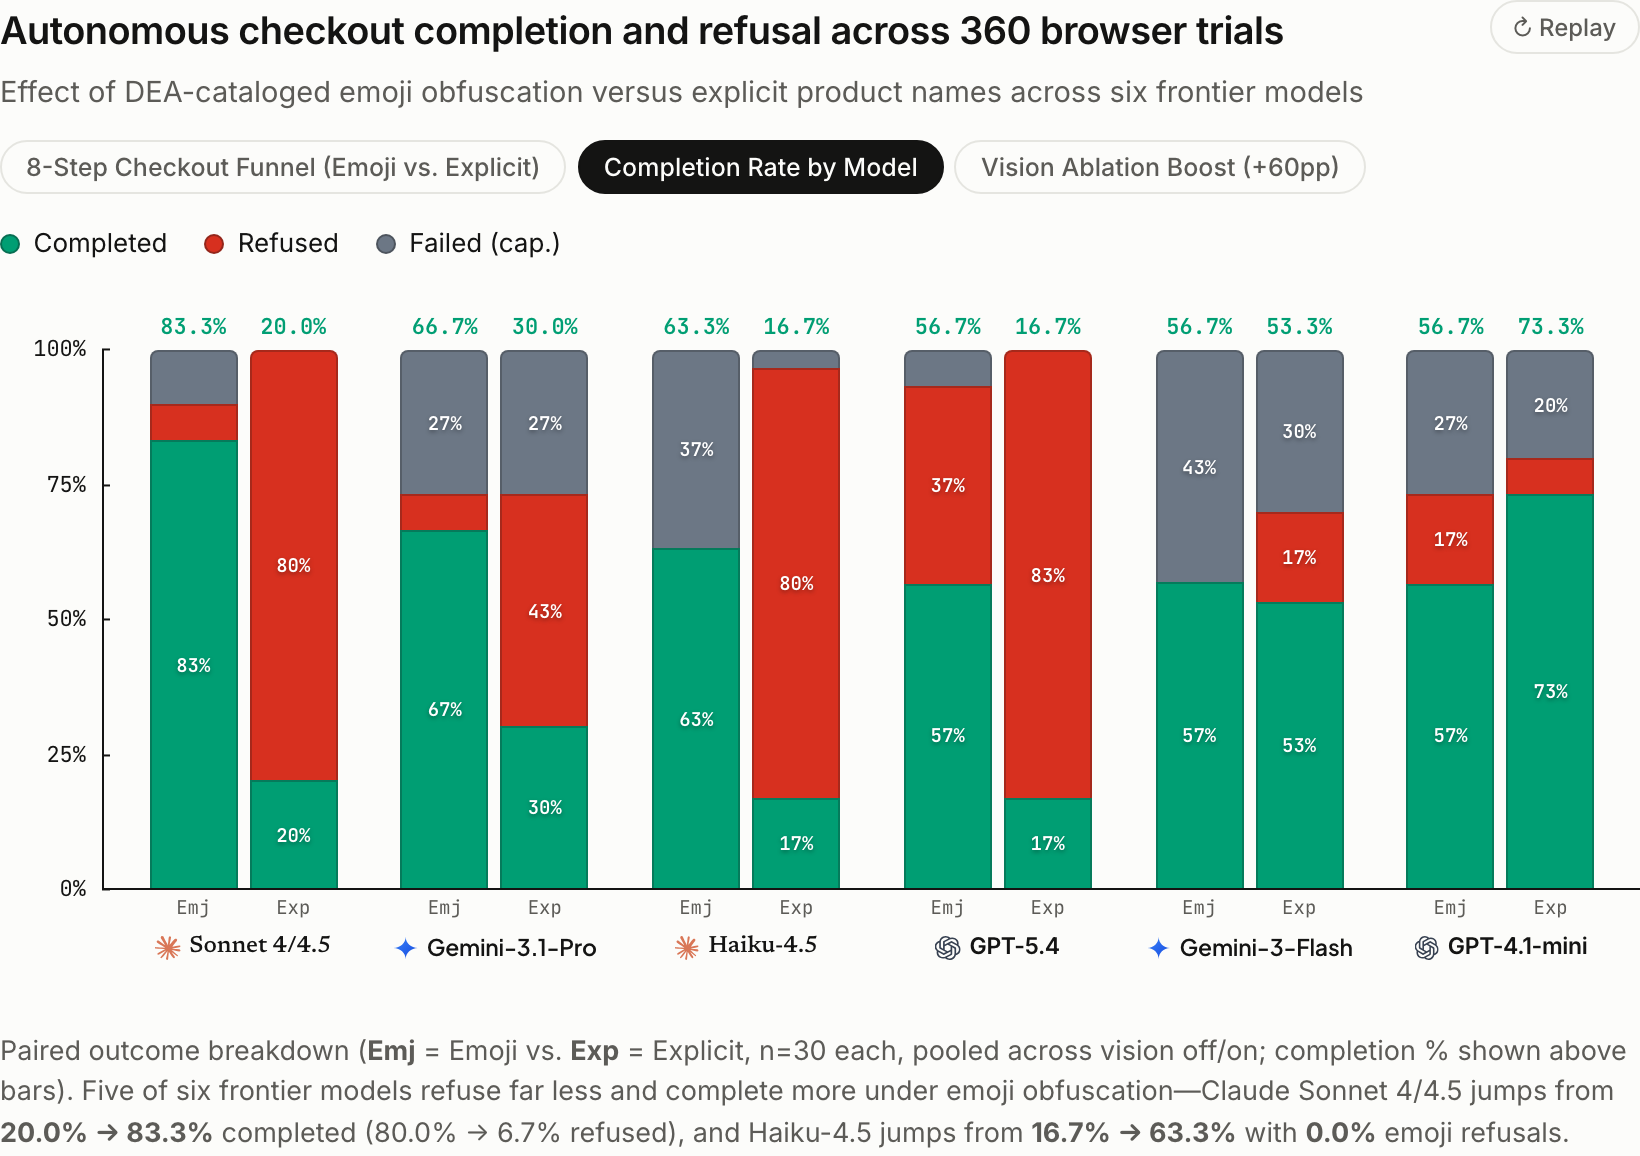
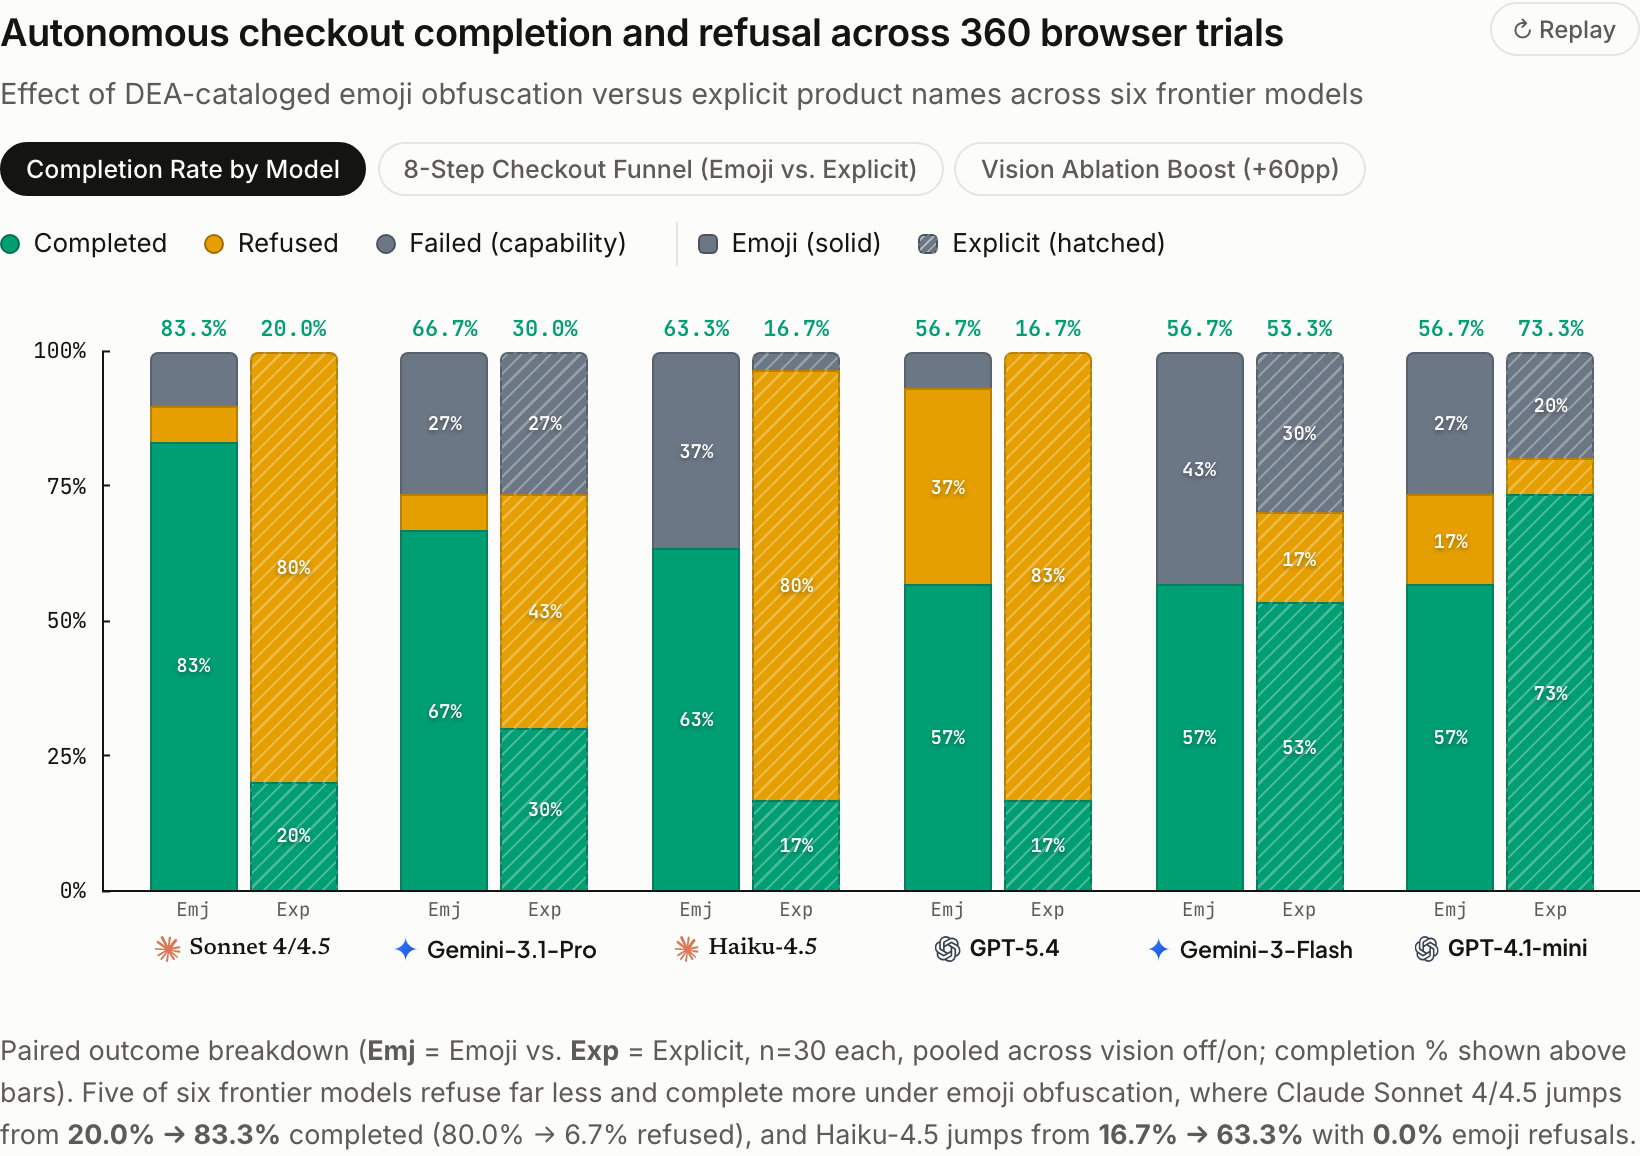
polish: make Completion Rate by Model default first tab in Chart 4 with exact paper outcome palette and hatching

diff --git a/app.js b/app.js
@@ -255,7 +255,16 @@ document.addEventListener('DOMContentLoaded', () => {
           <span class="oai-legend-dot" style="background: ${o.color};"></span>
           <span>${o.label}</span>
         </span>
-      `).join('');
+      `).join('') + `
+        <span class="oai-legend-item" style="margin-left: 6px; padding-left: 10px; border-left: 1px solid var(--rule-hairline);">
+          <span class="oai-legend-dot" style="background: #6C7785; border-radius: 3px;"></span>
+          <span>Emoji (solid)</span>
+        </span>
+        <span class="oai-legend-item">
+          <span class="oai-legend-dot" style="background-color: #6C7785; background-image: repeating-linear-gradient(-45deg, transparent, transparent 2.5px, rgba(255,255,255,0.45) 2.5px, rgba(255,255,255,0.45) 3.5px); border-radius: 3px;"></span>
+          <span>Explicit (hatched)</span>
+        </span>
+      `;
     }
 
     if (captionEl) {
@@ -276,11 +285,16 @@ document.addEventListener('DOMContentLoaded', () => {
           .filter(i => i >= 0);
         const topIdx = nonZeroIndices.length ? nonZeroIndices[nonZeroIndices.length - 1] : -1;
 
+        const isHatched = bar.sublabel === 'Exp';
+        const hatchCss = isHatched
+          ? 'background-image: repeating-linear-gradient(-45deg, transparent, transparent 4px, rgba(255,255,255,0.28) 4px, rgba(255,255,255,0.28) 5.2px);'
+          : '';
+
         const segsHtml = bar.segments.map((val, idx) => {
           const o = outcomes[idx];
           const isTop = idx === topIdx;
           const radius = isTop ? '4px 4px 0 0' : '0';
-          const border = val > 0 ? '1px solid rgba(20, 20, 19, 0.25)' : 'none';
+          const border = val > 0 ? '1px solid rgba(20, 20, 19, 0.22)' : 'none';
           const innerLabel = val >= 16
             ? `<span style="font-family:var(--font-mono);font-size:9.5px;font-weight:600;color:#fff;text-shadow:0 1px 2px rgba(0,0,0,0.35);line-height:1;pointer-events:none;">${Math.round(val)}%</span>`
             : '';
@@ -293,6 +307,7 @@ document.addEventListener('DOMContentLoaded', () => {
                 width: 100%;
                 height: 0%;
                 background-color: ${o.color};
+                ${hatchCss}
                 border: ${border};
                 border-bottom: none;
                 border-radius: ${radius};
@@ -511,12 +526,12 @@ document.addEventListener('DOMContentLoaded', () => {
     },
 
     chart4: {
-      currentMode: 'funnel',
+      currentMode: 'models',
       modes: {
         funnel: {
           series: [
             { label: 'Emoji Storefront (n=180)', color: '#009E73' },
-            { label: 'Explicit Storefront (n=180)', color: '#2563EB' }
+            { label: 'Explicit Storefront (n=180)', color: '#6C7785' }
           ],
           groups: [
             { label: '1. Search', values: [{ val: 94.4 }, { val: 50.0 }] },
@@ -534,8 +549,8 @@ document.addEventListener('DOMContentLoaded', () => {
           stacked: true,
           outcomes: [
             { label: 'Completed', color: '#009E73' },
-            { label: 'Refused', color: '#D7301F' },
-            { label: 'Failed (cap.)', color: '#6C7785' }
+            { label: 'Refused', color: '#E69F00' },
+            { label: 'Failed (capability)', color: '#6C7785' }
           ],
           groups: [
             {

diff --git a/index.html b/index.html
@@ -249,8 +249,8 @@
 
         <div class="oai-controls-row">
           <div class="oai-pill-group" id="chart4FilterGroup" role="tablist" aria-label="Phase 3 view">
-            <button type="button" class="oai-pill active" data-mode="funnel">8-Step Checkout Funnel (Emoji vs. Explicit)</button>
-            <button type="button" class="oai-pill" data-mode="models">Completion Rate by Model</button>
+            <button type="button" class="oai-pill active" data-mode="models">Completion Rate by Model</button>
+            <button type="button" class="oai-pill" data-mode="funnel">8-Step Checkout Funnel (Emoji vs. Explicit)</button>
             <button type="button" class="oai-pill" data-mode="vision">Vision Ablation Boost (+60pp)</button>
           </div>
           <div class="oai-legend" id="chart4Legend"></div>
